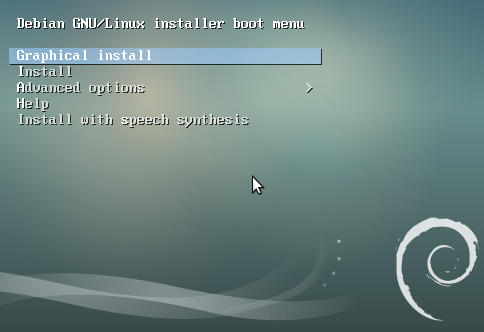
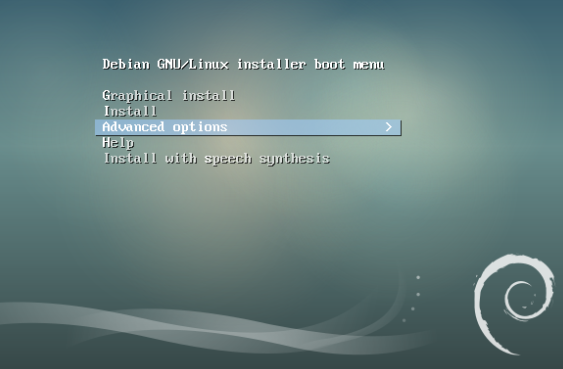
explode docs

diff --git a/documentation/installation/install-se4FS-di.rst b/documentation/installation/install-se4FS-di.rst
@@ -1,0 +1,125 @@
+========================================================================
+Installation automatique d'un serveur ``SE4-Files Server`` ou SE4-FS
+========================================================================
+
+
+.. sectnum::
+.. contents:: Table des matières
+
+
+Introduction
+============
+
+Ce document a pour but de décrire précisément la phase d'installation automatique d'un serveur ``SE4 Files server`` en utilisant un fichier ``preseed``. `Ce fichier aura été généré au préalable, soit sur le serveur <gen-preseed-se4AD.rst>__`
+``Se3`` contenant les données d'origine en cas d'une migration ou bien depuis le serveur Dimaker en cas de nouvelle installation.
+
+L’installation automatique du serveur SE4-FS peut se faire selon les modalités suivantes :
+
+* Depuis un boot ``PXE`` sur l'ancien serveur SE3 s'il s'agit d'une migration
+
+* Avec un support ``CD`` ou / clé ``USB`` type netboot
+
+Choix du support d'installation
+===============================
+
+Il faut commencer par démarrer l'installation du futur serveur ``Se4-FS``, soit par un boot ``PXE``, soit sur son support ``CD`` ou clé ``USB``. Seul ce boot initial va différer, la suite sera commune puisque l'on chargera le même fichier ``preseed``.
+
+
+Depuis un ``CD`` ou une clé ``USB``
+-----------------------------------
+
+Lors de l'affichage du menu de boot, ne lancez pas une installation classique mais sélectionnez les options avancées comme indiqué sur cette capture.
+
+.. figure:: images/se4_preseed_cdboot1.png
+
+Puis choisissez l'installation de type automatique
+
+.. figure:: images/se4_preseed_cdboot1b.png
+
+L'installation va alors débuter. Au bout de quelques minutes, vous serez inviter à saisir l'url du fichier de configuration ``preseed`` à utiliser. Attention, à ce stade le clavier est encore configuré en ``qwerty``.
+
+.. figure:: images/se4_preseed_cdboot1c.png
+
+Une fois l'url complétée, il faut bien prendre soin de vérifier l'absence d'erreur de saisie avant de valider.
+
+
+Raccourci pour les connaisseurs
+...............................
+
+Il est également possible de donner l'url du preseed dés le départ en appuyant sur la touche ``Echap`` lors du premier écran de boot et de saisir la ligne suivante en adaptant l'``ip`` du ``Se3`` 
+Attention, le clavier est configuré en ``qwerty`` au boot alors que vous utilisez sans doute un clavier ``azerty``.
+
+.. figure:: images/se4_preseed_cdboot2.png
+
+
+En utilisant le boot ``PXE`` d'un SE3 existant (migration de serveur)
+---------------------------------------------------------------------
+
+Si vous optez pour cette solution, il suffit d'effectuer un boot ``PXE`` et de choisir l'entrée ``Maintenance`` 
+
+.. figure:: images/se4_preseed_boot1.png
+
+puis ``Installation`` et enfin ``Netboot Debian Stretch SE4-FS (amd64)``. 
+.. Attention:: seule l'architecture ``amd64`` est supportée.
+
+.. figure:: images/se4_preseed_tftp_install.png
+
+
+Déroulement de la suite de l'installation du SE4-FS
+===================================================
+
+Quelque soit la méthode employée (``PXE`` / ``CD`` / clé ``USB``), une fois le fichier ``preseed`` chargé, la suite est automatique. Vous trouverez, ci-dessous, quelques commentaires sur certaines étapes de cette installation.
+
+
+Partitionnement
+---------------
+
+.. Attention:: **lors de cette étape toutes les données du disque sont effacées sans avertissement**
+
+
+L'outil de partitionnement debian fera en sorte de s'adapter au mieux en fonction de la taille totale du disque et des partitions à créer sachant que la taille moyenne de chaque partition a été définie lors de la phase de génération du ``preseed``
+
+Cinq partitions seront créées.
+
+* Partition Racine ``/`` ext4
+* Partition ``/var`` ext4
+* Partition ``/home`` xfs
+* Partition ``/var/sambaedu`` xfs
+* Partition ``Swap`` 
+
+
+Installation du système
+-----------------------
+
+Une fois les partitionnement effectué, commence l'installation du système de base.
+
+.. figure:: images/se4_preseed_base.png
+
+La suite consiste à installer les logiciels complémentaires. Cela prend quelques minutes et fluctue selon le débit de votre connexion internet.
+
+.. figure:: images/se4_preseed_softs.png
+
+
+Configuration de ``Grub``
+-------------------------
+
+``Grub`` est installé afin de rendre le système bootable.
+
+.. figure:: images/se4_preseed_grub.png
+
+
+Fin de l'installation
+--------------------- 
+
+Vient enfin le message final, signalant que le serveur est prêt à rebooter.
+
+.. figure:: images/se4_preseed_final.png
+
+À cette étape, vous disposez d'une ``Debian Stretch`` installée contenant tous les fichiers de configuration nécessaires à la suite de l'installlation de votre ``Se4-FS``.
+
+Il vous reste à lancer cette machine, booter sur le nouveau système et vous y connecter en tant que ``root``.
+
+Un programme afin d'en finaliser sa configuration automatique. Pour cela, on se reportera à la documentation_ détaillant les étapes nécessaires à l'obtention de votre ``SE4-FS`` pleinement fonctionnel.
+
+.. _documentation: install-se4FS.rst
+

diff --git a/documentation/installation/install-se4AD-di.rst b/documentation/installation/install-se4AD-di.rst
@@ -1,0 +1,116 @@
+========================================================================
+Installation automatique d'un serveur ``SE4-Active Directory`` ou SE4-AD
+========================================================================
+
+
+.. sectnum::
+.. contents:: Table des matières
+
+
+Introduction
+============
+
+Ce document a pour but de décrire précisément la phase d'installation automatique d'un serveur ``SE4 Active Directory`` en utilisant un fichier ``preseed``. Ce fichier aura été généré au préalable, soit sur le serveur ``Se3`` contenant les données d'origine en cas d'une migration ou bien depuis le serveur Dimaker en cas de nouvelle installation.
+
+L’installation automatique du serveur SE4-AD peut se faire selon les modalités suivantes :
+
+* Depuis un boot ``PXE`` sur l'ancien serveur SE3 s'il s'agit d'une migration
+
+* Avec un support ``CD`` ou / clé ``USB`` type netboot
+
+Choix du support d'installation
+===============================
+
+Il faut commencer par démarrer l'installation du futur serveur ``Se4-AD``, soit par un boot ``PXE``, soit sur son support ``CD`` ou clé ``USB``. Seul ce boot initial va différer, la suite sera commune puisque l'on chargera le même fichier ``preseed``.
+
+
+Depuis un ``CD`` ou une clé ``USB``
+-----------------------------------
+
+Lors de l'affichage du menu de boot, ne lancez pas une installation classique mais sélectionnez les options avancées comme indiqué sur cette capture.
+
+.. figure:: images/se4_preseed_cdboot1.png
+
+Puis choisissez l'installation de type automatique
+
+.. figure:: images/se4_preseed_cdboot1b.png
+
+L'installation va alors débuter. Au bout de quelques minutes, vous serez inviter à saisir l'url du fichier de configuration ``preseed`` à utiliser. Attention, à ce stade le clavier est encore configuré en ``qwerty``.
+
+.. figure:: images/se4_preseed_cdboot1c.png
+
+Une fois l'url complétée, il faut bien prendre soin de vérifier l'absence d'erreur de saisie avant de valider.
+
+
+Raccourci pour les connaisseurs
+...............................
+
+Il est également possible de donner l'url du preseed dés le départ en appuyant sur la touche ``Echap`` lors du premier écran de boot et de saisir la ligne suivante en adaptant l'``ip`` du ``Se3`` 
+Attention, le clavier est configuré en ``qwerty`` au boot alors que vous utilisez sans doute un clavier ``azerty``.
+
+.. figure:: images/se4_preseed_cdboot2.png
+
+
+En utilisant le boot ``PXE`` d'un SE3 existant (migration de serveur)
+---------------------------------------------------------------------
+
+Si vous optez pour cette solution, il suffit d'effectuer un boot ``PXE`` et de choisir l'entrée ``Maintenance`` 
+
+.. figure:: images/se4_preseed_boot1.png
+
+puis ``Installation`` et enfin ``Netboot Debian Stretch SE4-AD (amd64)``. Attention, seule l'architecture ``amd64`` est supportée.
+
+.. figure:: images/se4_preseed_tftp_install.png
+
+
+Déroulement de la suite de l'installation du SE4-AD
+===================================================
+
+Quelque soit la méthode employée (``PXE`` / ``CD`` / clé ``USB``), une fois le fichier ``preseed`` chargé, la suite est automatique. Vous trouverez, ci-dessous, quelques commentaires sur certaines étapes de cette installation.
+
+
+Partitionnement
+---------------
+
+**Attention :** lors de cette étape toutes les données du disque sont effacées sans avertissement.
+
+Les 3 partitions ci-dessous sont créés. Selon la taille du disque disponible, l'outil de partitionnement va moduler les tailles des partitions selon l'espace disque tout en respectant les règles suivantes :
+
+* Partition Racine ``/`` d'un minimum de 5Go, 10Go de préférence voire 20Go s'il reste de la place
+* Partition ``/var`` , 10Go de préférence et plus s'il reste de la place disponible
+* Partition ``Swap`` de 16Go ou 200% de la ``ram`` au minimum
+
+
+Installation du système
+-----------------------
+
+On commence par l'installation du système de base.
+
+.. figure:: images/se4_preseed_base.png
+
+La suite consiste à installer les logiciels complémentaires. Cela prend quelques minutes et fluctue selon le débit de votre connexion internet.
+
+.. figure:: images/se4_preseed_softs.png
+
+
+Configuration de ``Grub``
+-------------------------
+
+``Grub`` est installé afin de rendre le système bootable.
+
+.. figure:: images/se4_preseed_grub.png
+
+
+Fin de l'installation
+--------------------- 
+
+Vient enfin le message final, signalant que le serveur est prêt à rebooter.
+
+.. figure:: images/se4_preseed_final.png
+
+À cette étape, vous disposez d'une ``Debian Stretch`` installée contenant tous les fichiers de configuration nécessaires à la suite de l'installlation de votre ``Se4-AD``.
+
+Il vous reste à lancer cette machine et vous y connecter en tant que ``root`` afin d'en finaliser sa configuration automatique. Pour cela, on se reportera à la documentation_ détaillant les étapes nécessaires à l'obtention de votre ``SE4-AD`` pleinement fonctionnel.
+
+.. _documentation: install-se4AD.rst
+
